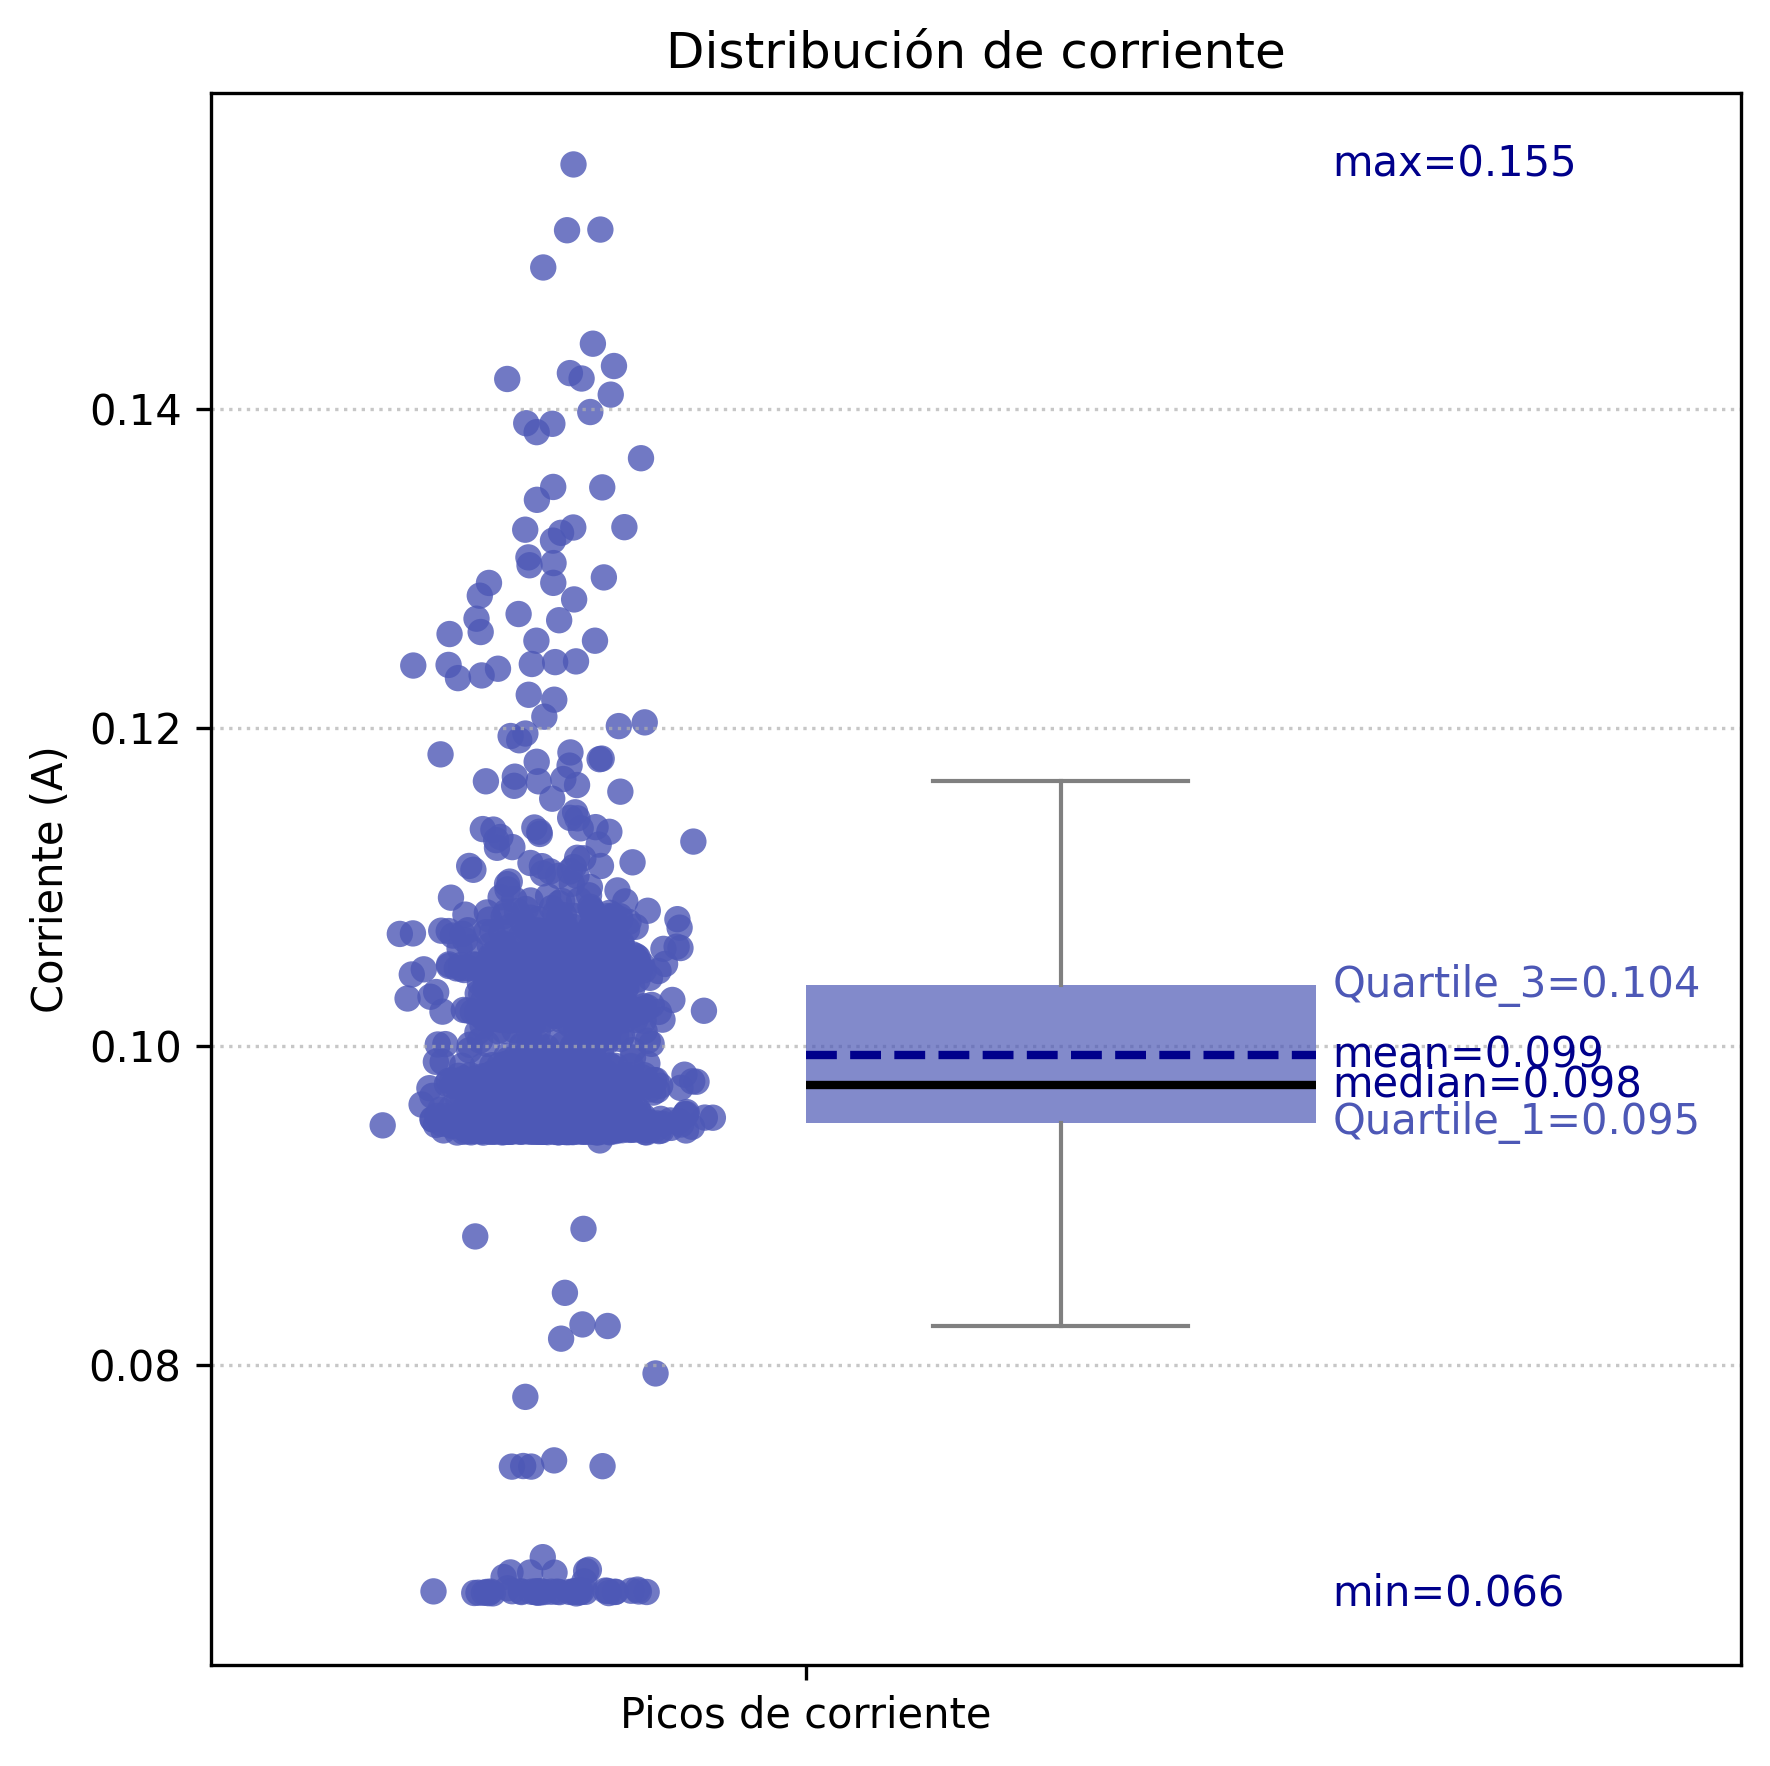
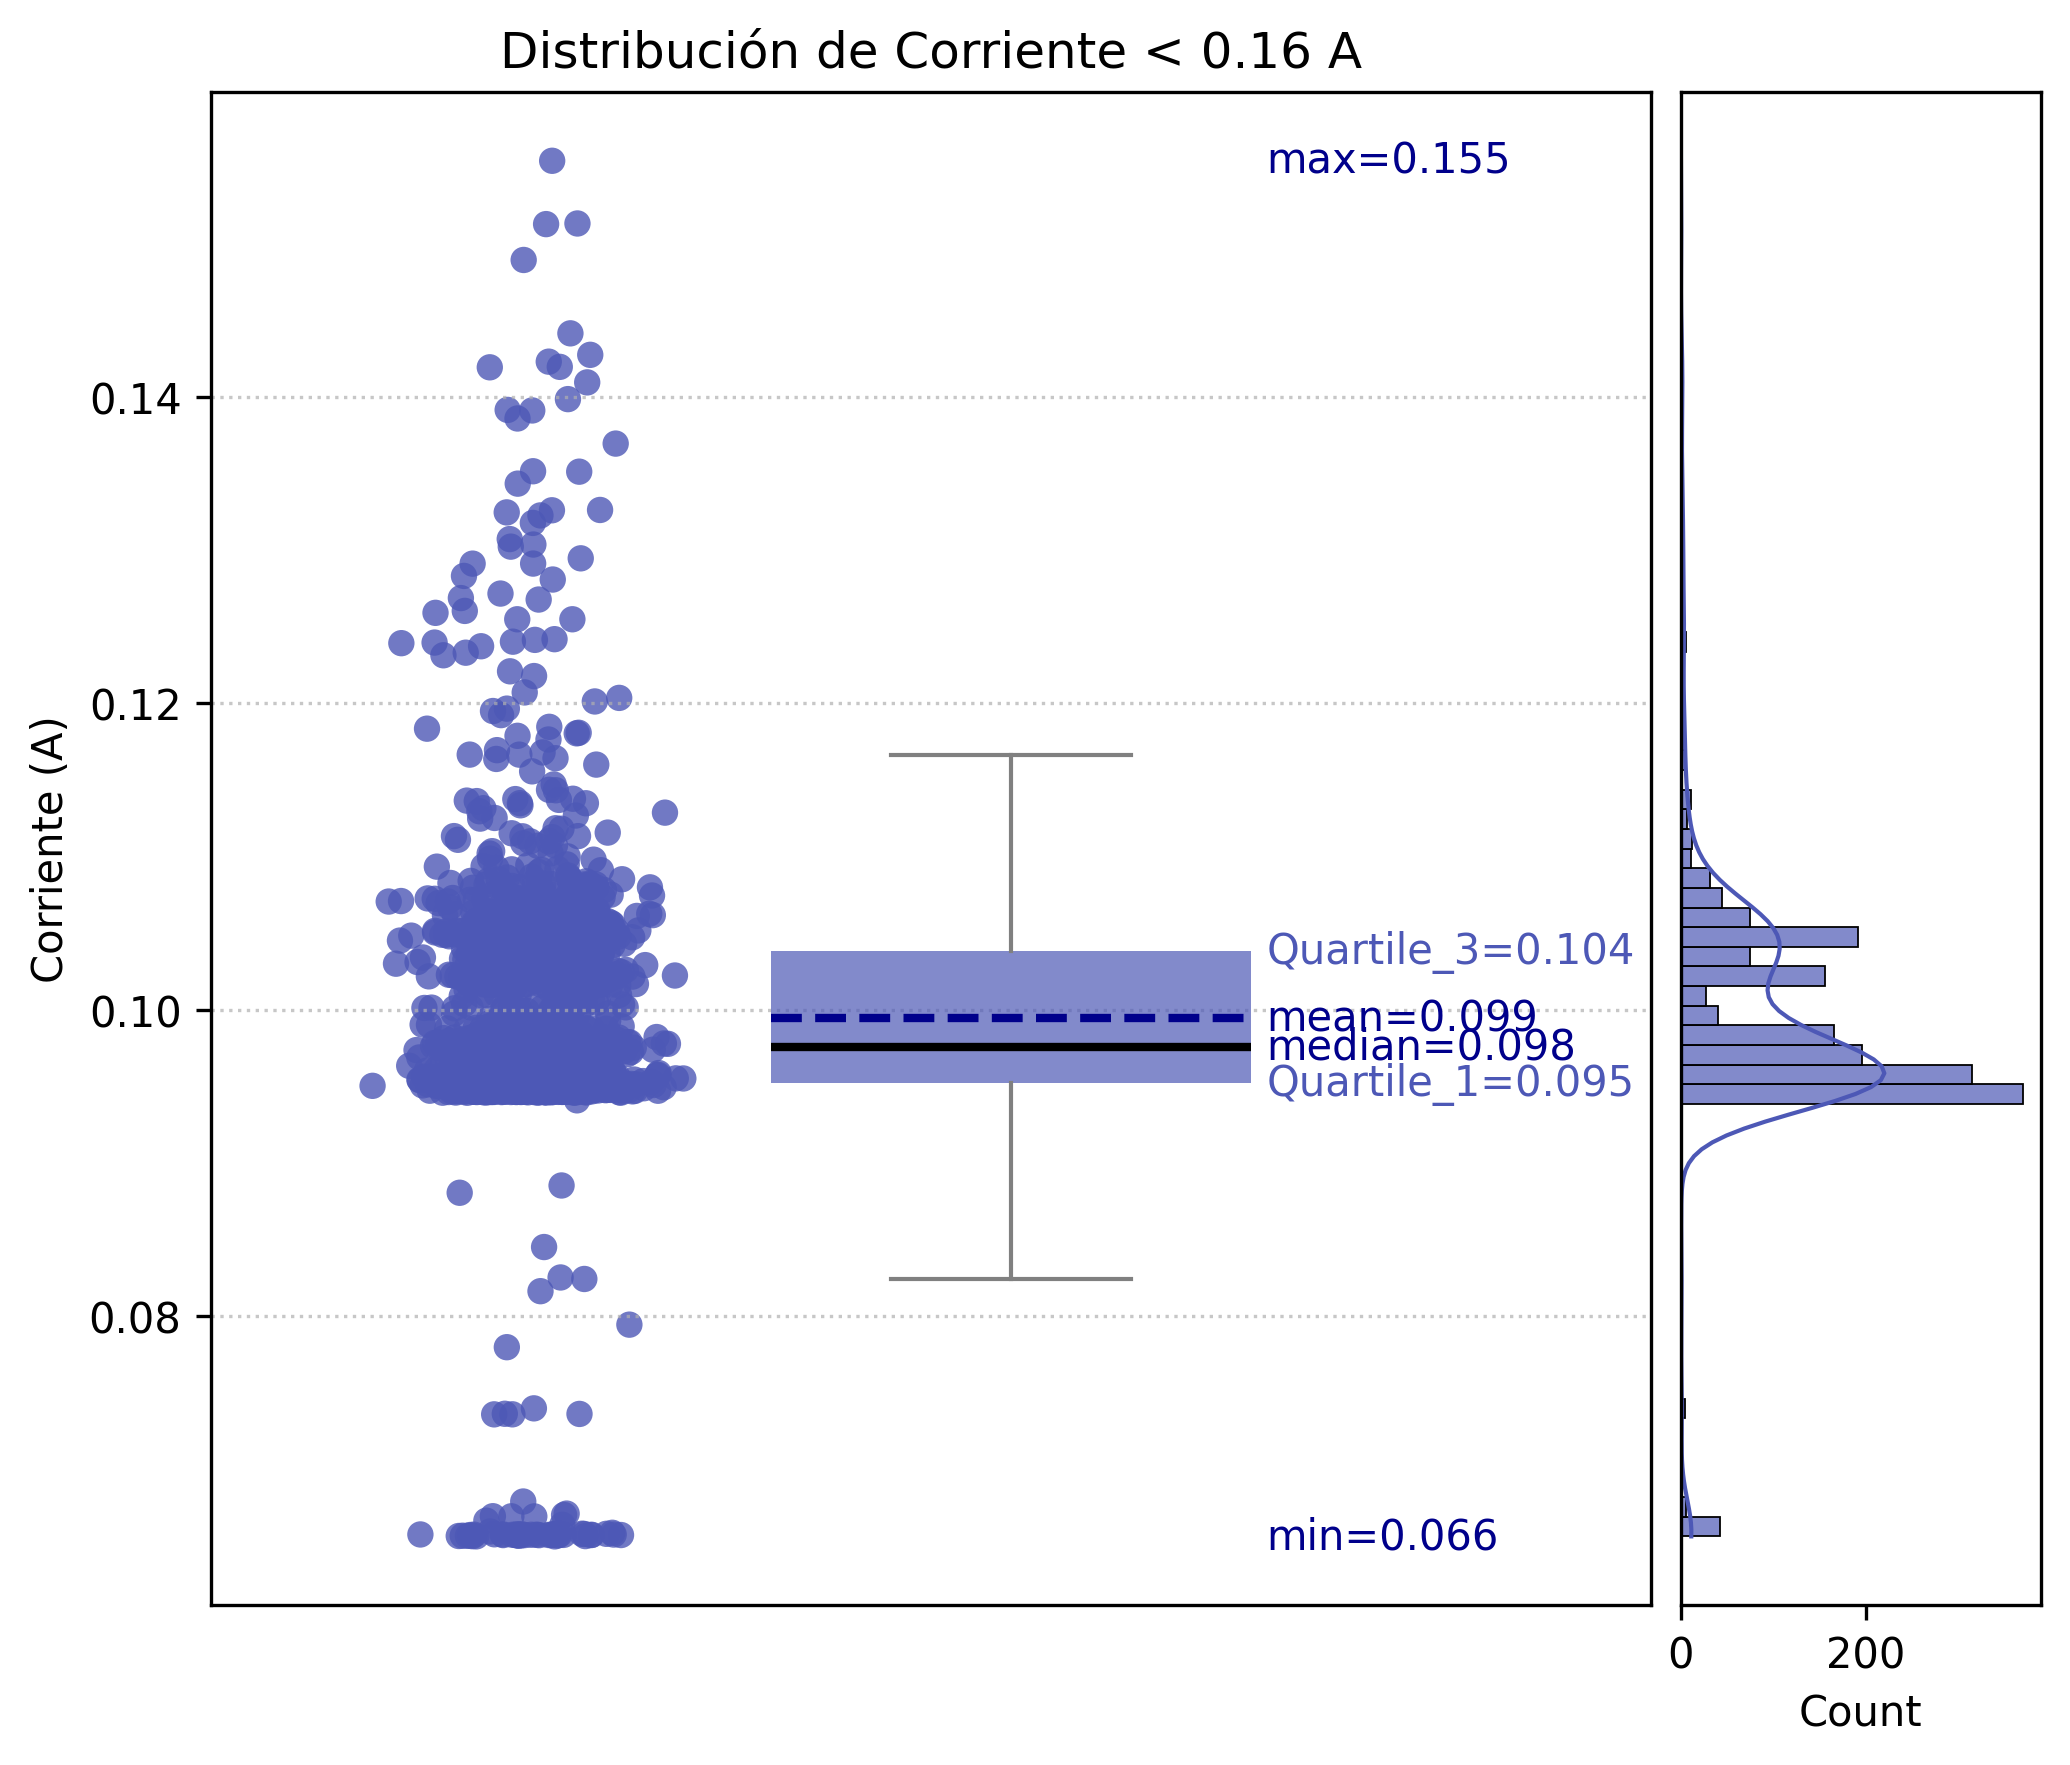
final de analisis de distribución de corriente, parte documentación electrónica

diff --git a/Desarrollo/Electrónica/data_analysis_grilla.py b/Desarrollo/Electrónica/data_analysis_grilla.py
@@ -2,6 +2,8 @@ import os
 import polars as pl
 import matplotlib.pyplot as plt
 import numpy as np
+import seaborn as sns
+from mpl_toolkits.axes_grid1 import make_axes_locatable
 
 # === Configuración de rutas ===
 data_dir = os.path.join(os.path.dirname(__file__), 'Mediciones_Reales')
@@ -163,12 +165,12 @@ print(f"Guardado: {out2}")
 # BOXPLOT DE PICOS DE CORRIENTE
 # Asume que df_peaks ya está definido y tiene la columna "current"
 
-def boxplot(data, color, text_color, title, filename=None):
+def boxplot(data, color, text_color, title, figsize=(6,6), filename=None, hist=False):
     # Posiciones: puntos a la izquierda (x≈0.8), boxplot a la derecha (x=1.1)
     x_box = 1.1
     x_points_center = 0.8
 
-    fig, ax = plt.subplots(figsize=(6, 6))
+    fig, ax = plt.subplots(figsize=figsize)
 
     # 1. Boxplot (a la derecha)
     bp = ax.boxplot(
@@ -199,8 +201,7 @@ def boxplot(data, color, text_color, title, filename=None):
             colors=text_color, linestyles="--", linewidth=2, label="Media")
 
     # Etiquetas y formato
-    ax.set_xticks([ (x_points_center + x_box) / 2 ])  # etiqueta centrada debajo
-    ax.set_xticklabels(["Picos de corriente"])
+    ax.set_xticks([])              # no mostrar ticks duplicados
     ax.set_ylabel("Corriente (A)")
     ax.set_title(title)
     ax.grid(axis="y", linestyle=":", alpha=0.7)
@@ -221,6 +222,27 @@ def boxplot(data, color, text_color, title, filename=None):
     ax.text(x_box + 0.16, q1, f"Quartile_1={q1:.3f}", va="center", fontsize=10, color=color)
     ax.text(x_box + 0.16, q3, f"Quartile_3={q3:.3f}", va="center", fontsize=10, color=color)
 
+    if hist:    
+        divider = make_axes_locatable(ax)
+        ax_hist = divider.append_axes("right", size="25%", pad=0.1, sharey=ax)
+
+        # Histograma horizontal de la misma variable
+        sns.histplot(
+        data=pl.DataFrame({"current": data}),
+        y="current",
+        bins=70,
+        kde=True,                     # equivalente a distplot: hist + KDE
+        stat="count",
+        ax=ax_hist,
+        color=color,
+        alpha=0.7,
+        line_kws={"linewidth": 1},
+        )
+
+        ax_hist.tick_params(axis="y", which="both", labelleft=False, left=False)
+        ax_hist.set_ylabel("")              # quitar cualquier label redundante
+
+
     plt.tight_layout()
     plt.show()
 
@@ -233,4 +255,5 @@ boxplot(peaks, color="#4db6ac", text_color="darkgreen", title="Distribución de 
 
 current = df.filter(pl.col("current") < 0.16)
 current = current["current"].to_numpy()
-boxplot(current, color="#4d58b6", text_color="darkblue", title="Distribución de corriente", filename="boxplot_I.png")
+boxplot(current, color="#4d58b6", text_color="darkblue", title="Distribución de Corriente < 0.16 A", 
+        filename="boxplot_I.png", figsize=(7, 6), hist=True)
